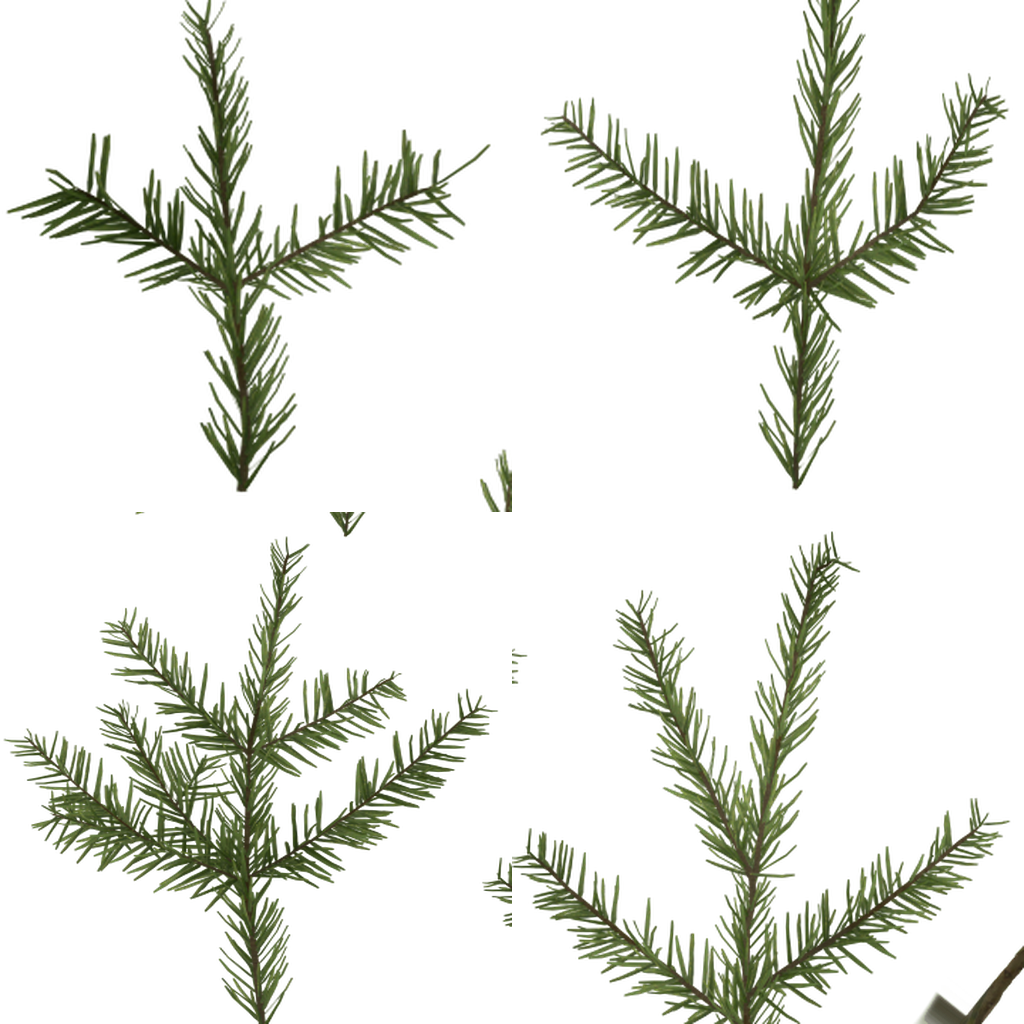
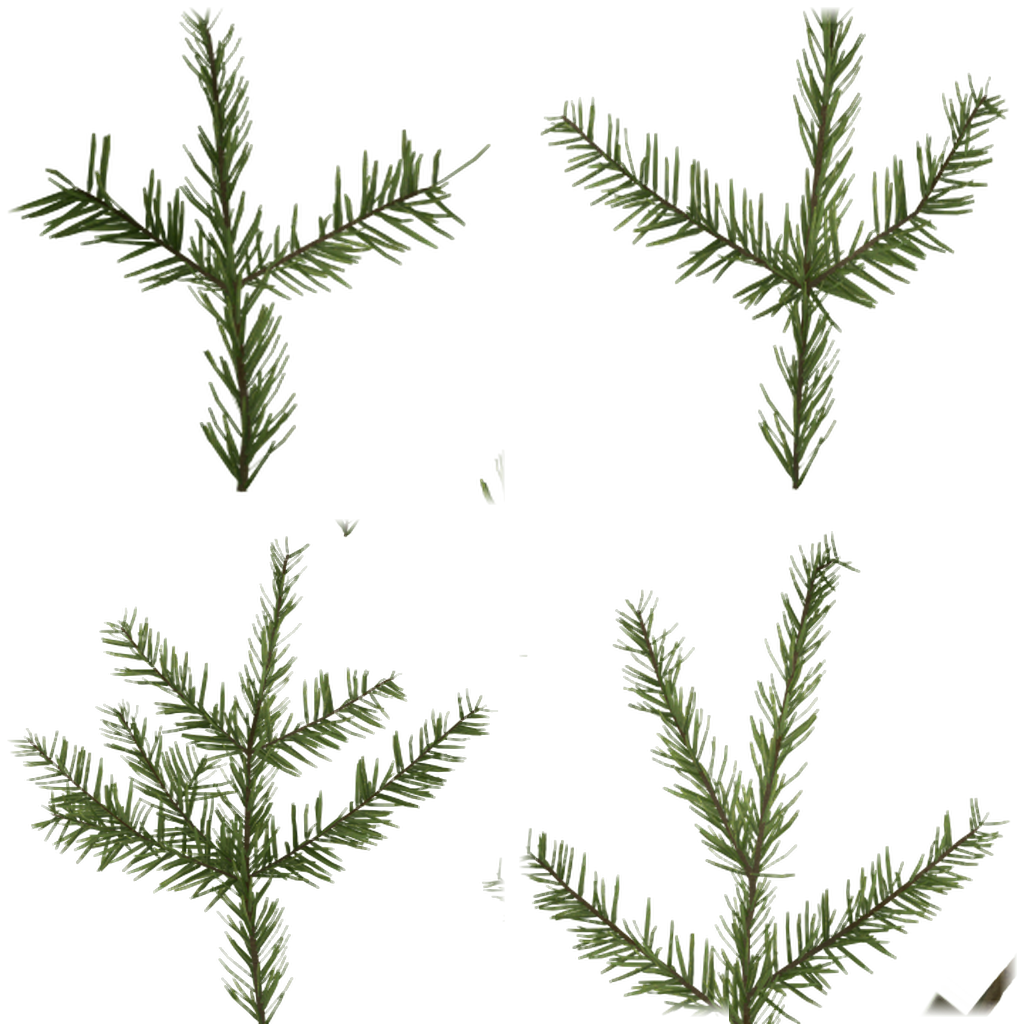
Kilnwood 0.18.1: fix black grass, twig fringes, round stars; drop leaf cards
Claude-Session: https://claude.ai/code/session_01XAsMhFDn9ftKNcNhDUrR2W

diff --git a/Assets/Kilnwood/Scripts/Game/GrassView.cs b/Assets/Kilnwood/Scripts/Game/GrassView.cs
@@ -20,9 +20,34 @@ namespace Kilnwood.Game
         RenderParams _rp;
         bool _cards;
 
-        public GrassView(World w)
+        // 0.18.1: the card clumps drew black through instanced KW_Grass, so they are now baked into 16x16-tile chunk meshes
+        // drawn with the foliage card shader (the one the pine twigs use). Only chunks whose open tiles changed are rebuilt.
+        const int Chunk = 16;
+        Transform _root;
+        Material _cardMat;
+        MeshFilter[] _chunkMesh;
+        ulong[] _chunkKey;
+
+        public GrassView(World w, Transform parent = null)
         {
             _w = w;
+            var cardTex = Resources.Load<Texture2D>("Foliage/grass_cards");
+            var cardShader = Shader.Find("Kilnwood/FoliageCard");
+            if (parent != null && cardTex != null && cardShader != null && cardShader.isSupported)
+            {
+                _cardMat = new Material(cardShader) { name = "Grass cards", mainTexture = cardTex };
+                _cardMat.SetFloat("_Cutoff", 0.45f);
+                _cardMat.SetFloat("_Wind", 0.35f);
+                _cardMat.SetFloat("_Translucency", 0.35f);
+                _cardMat.color = new Color(1.05f, 1.05f, 0.95f);
+                _root = new GameObject("Grass").transform;
+                _root.SetParent(parent, false);
+                int cw = (w.W + Chunk - 1) / Chunk, ch = (w.H + Chunk - 1) / Chunk;
+                _chunkMesh = new MeshFilter[cw * ch];
+                _chunkKey = new ulong[cw * ch];
+                _cards = true;
+                return;
+            }
             var m = Resources.Load<Material>("KW_Grass");
             if (m == null || m.shader == null || !m.shader.isSupported) return;
             _mat = new Material(m) { enableInstancing = true };
@@ -54,6 +79,7 @@ namespace Kilnwood.Game
 
         public void Rebuild()
         {
+            if (_cardMat != null) { RebuildChunks(); return; }
             if (_mat == null) return;
             _batches.Clear();
             _counts.Clear();
@@ -81,6 +107,78 @@ namespace Kilnwood.Game
                     }
                 }
             if (n > 0) { _batches.Add(cur); _counts.Add(n); }
+        }
+
+        void RebuildChunks()
+        {
+            int cw = (_w.W + Chunk - 1) / Chunk, ch = (_w.H + Chunk - 1) / Chunk;
+            var v = new List<Vector3>(); var c = new List<Color>(); var nm = new List<Vector3>(); var uv = new List<Vector2>(); var t = new List<int>();
+            for (int cy = 0; cy < ch; cy++)
+                for (int cx = 0; cx < cw; cx++)
+                {
+                    // A cheap fingerprint of which tiles in (and just around) the chunk are open.
+                    ulong key = 1469598103934665603UL;
+                    for (int y = cy * Chunk - 1; y <= cy * Chunk + Chunk; y++)
+                        for (int x = cx * Chunk - 1; x <= cx * Chunk + Chunk; x++)
+                            key = (key ^ (Open(x, y) ? 1UL : 2UL)) * 1099511628211UL;
+                    int ci = cy * cw + cx;
+                    if (_chunkMesh[ci] != null && _chunkKey[ci] == key) continue;
+                    _chunkKey[ci] = key;
+                    v.Clear(); c.Clear(); nm.Clear(); uv.Clear(); t.Clear();
+                    for (int y = cy * Chunk; y < Mathf.Min(_w.H, cy * Chunk + Chunk); y++)
+                        for (int x = cx * Chunk; x < Mathf.Min(_w.W, cx * Chunk + Chunk); x++)
+                        {
+                            if (!Open(x, y)) continue;
+                            bool edge = !Open(x + 1, y) || !Open(x - 1, y) || !Open(x, y + 1) || !Open(x, y - 1);
+                            int count = edge ? 3 : 6;
+                            for (int k = 0; k < count; k++)
+                            {
+                                float jx = Art.Hash(x * 7 + k, y, 21), jz = Art.Hash(x, y * 5 + k, 22), r = Art.Hash(x + k, y + k, 23);
+                                var p = new Vector3((x + 0.05f + 0.9f * jx) * WorldView.T, 0f, (y + 0.05f + 0.9f * jz) * WorldView.T);
+                                float sc = 0.7f + 0.7f * r;
+                                float patch = Mathf.PerlinNoise(p.x * 0.06f + 3f, p.z * 0.06f + 9f);
+                                if (patch < 0.28f && k % 2 == 1) continue;
+                                sc *= 0.6f + 0.8f * patch;
+                                AddTuft(v, c, nm, uv, t, p, r * 360f, sc, sc * (0.8f + 0.5f * jx), (x * 3 + y + k) & 3);
+                            }
+                        }
+                    var mf = _chunkMesh[ci];
+                    if (mf == null)
+                    {
+                        var go = new GameObject("Grass " + cx + "," + cy);
+                        go.transform.SetParent(_root, false);
+                        mf = go.AddComponent<MeshFilter>();
+                        var mr = go.AddComponent<MeshRenderer>();
+                        mr.sharedMaterial = _cardMat;
+                        mr.shadowCastingMode = UnityEngine.Rendering.ShadowCastingMode.Off;
+                        mr.receiveShadows = true;
+                        mf.sharedMesh = new Mesh { name = go.name, indexFormat = UnityEngine.Rendering.IndexFormat.UInt32 };
+                        _chunkMesh[ci] = mf;
+                    }
+                    var mesh = mf.sharedMesh;
+                    mesh.Clear();
+                    mesh.SetVertices(v); mesh.SetColors(c); mesh.SetNormals(nm); mesh.SetUVs(0, uv); mesh.SetTriangles(t, 0);
+                    mesh.RecalculateBounds();
+                    mf.gameObject.SetActive(v.Count > 0);
+                }
+        }
+
+        /// <summary>Three crossed cards around p, each one of the four scanned clumps; root shaded, tip light.</summary>
+        static void AddTuft(List<Vector3> v, List<Color> c, List<Vector3> nm, List<Vector2> uv, List<int> t, Vector3 p, float yaw, float sw, float sh, int cell0)
+        {
+            var root = new Color(0.8f, 0.82f, 0.74f, 0.2f); var tip = new Color(1f, 1f, 0.95f, 1f);
+            for (int k = 0; k < 3; k++)
+            {
+                var side = Quaternion.Euler(0f, yaw + k * 60f, 0f) * Vector3.right * (0.42f * sw);
+                var up = Vector3.up * (0.42f * sh);
+                float u0 = ((cell0 + k) & 3) * 0.25f + 0.004f, u1 = u0 + 0.242f;
+                int o = v.Count;
+                v.Add(p - side); v.Add(p + side); v.Add(p + side + up); v.Add(p - side + up);
+                c.Add(root); c.Add(root); c.Add(tip); c.Add(tip);
+                for (int q = 0; q < 4; q++) nm.Add(Vector3.up);
+                uv.Add(new Vector2(u0, 0f)); uv.Add(new Vector2(u1, 0f)); uv.Add(new Vector2(u1, 1f)); uv.Add(new Vector2(u0, 1f));
+                t.Add(o); t.Add(o + 2); t.Add(o + 1); t.Add(o); t.Add(o + 3); t.Add(o + 2);
+            }
         }
 
         public void Draw()

diff --git a/Assets/Kilnwood/Scripts/Game/Trees.cs b/Assets/Kilnwood/Scripts/Game/Trees.cs
@@ -12,7 +12,7 @@ namespace Kilnwood.Game
     public static class Trees
     {
         const int Variants = 4;
-        static Mesh[] _pines, _leafy, _leafyFar, _pineCards, _leafCards;
+        static Mesh[] _pines, _leafy, _leafyFar, _pineCards;
         static Material _src;
         static bool _checked;
         static readonly Dictionary<Color, Material> _mats = new Dictionary<Color, Material>();
@@ -80,11 +80,7 @@ namespace Kilnwood.Game
                 var g = Leaf[(int)(r2 * 3.99f)];
                 if (!far) Art.Part("Trunk", parent, Art.Frustum, Vector3.zero, new Vector3(0.38f * s, 2.6f * s, 0.38f * s), Look.Bark);
                 Add("Crown", parent, far ? _leafyFar[v] : _leafy[v], Mat(g), Vector3.zero, Vector3.one * s * (far ? 1.35f : 1f), !far);
-                if (!far && CardsAvailable)
-                {
-                    _leafCards ??= MakeAll(LeafCards);
-                    Add("Leaves", parent, _leafCards[v], CardMat(_leafTex, g), Vector3.zero, Vector3.one * s, true);
-                }
+                // 0.18.1: the scanned leaf cards read as smeared shards (QA), so broadleaf crowns keep their own leafy mesh.
             }
         }
 

diff --git a/Assets/Kilnwood/Scripts/Game/WorldView.cs b/Assets/Kilnwood/Scripts/Game/WorldView.cs
@@ -102,7 +102,7 @@ namespace Kilnwood.Game
             float size = w.W * T;
 
             _ground = new GroundView(root, w);
-            _grass = new GrassView(w);
+            _grass = new GrassView(w, root);
             _grass.Rebuild();
             float riverX = (MapGen.RiverX0 + MapGen.RiverX1) / 2f * T + T / 2f;
             _hills = Art.Hills(root, size, riverX).GetComponent<HillHeight>();
